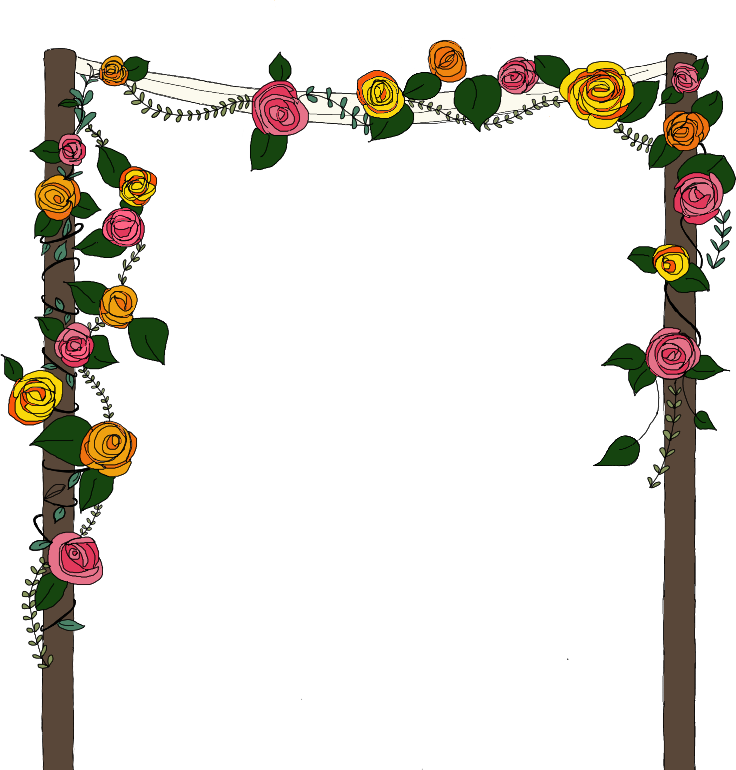
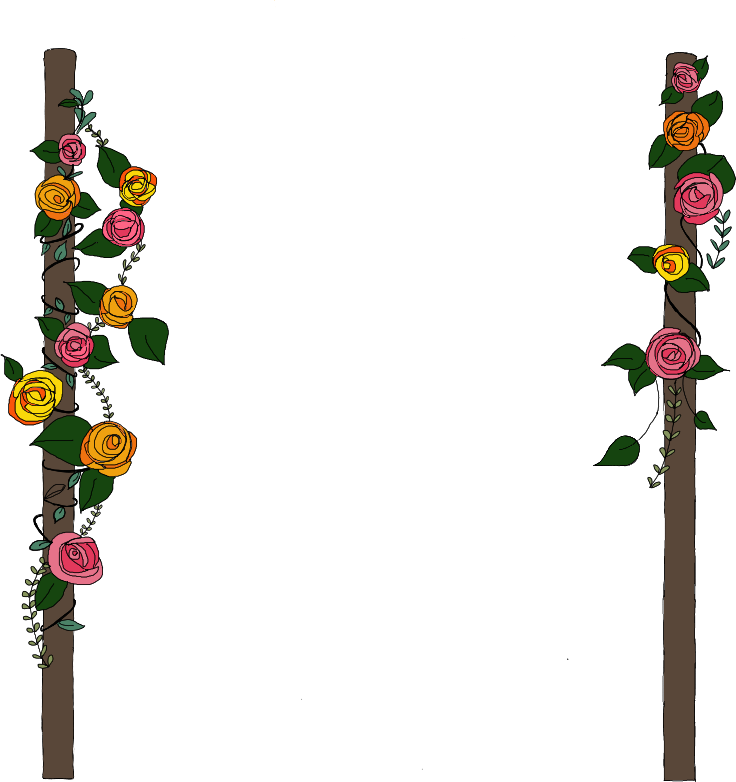
Make top of chuppah a rope

Changed region(s): [[0.0, 0.0312, 1.0, 0.8727], [0.875, 0.9974, 0.9688, 1.0], [0.0312, 0.9974, 0.125, 1.0]]

diff --git a/game/src/scenes/Game.ts b/game/src/scenes/Game.ts
@@ -60,6 +60,7 @@ export class Game extends Scene {
         this.load.image("cassidy", "cassidy.png");
         this.load.image("chuppah", "chuppah.png");
         this.load.image("chuppah-platform", "chuppah-platform.png");
+        this.load.image("chuppah-top", "chuppah-top-unskewed.png");
         this.load.image("wardrobe-door", "wardrobe-door.png");
         this.load.image("banner", "banner.png");
         this.load.image("camera", "camera.png");
@@ -598,25 +599,42 @@ export class Game extends Scene {
         chuppah.setCollisionCategory(CATEGORY_FOREGROUND);
         chuppah.setCollidesWith(0);
 
-        // this.createChuppahLine(poles, 30, 12);
-        // this.createChuppahLine(poles, 30, 16);
+        const chuppahTop = this.createRope(
+            "chuppah-top",
+            new Phaser.Geom.Point(GAME_WIDTH / 2 - 300, GAME_HEIGHT - 760),
+            new Phaser.Geom.Point(GAME_WIDTH / 2 + 300, GAME_HEIGHT - 765),
+            30,
+            5,
+            20,
+            CATEGORY_OBJECTS,
+            CATEGORY_OBJECTS,
+            0.8,
+        );
+        chuppahTop.setDepth(DEPTH_DEFAULT);
     }
 
-    createBanner() {
-        const numPoints = 30;
-        const bannerRope = this.add.rope(
+    createRope(
+        texture: string,
+        ropeBegin: Phaser.Geom.Point,
+        ropeEnd: Phaser.Geom.Point,
+        numPoints: number,
+        droopX: number,
+        droopY: number,
+        collisionCategory: number,
+        collidesWith: number,
+        segmentLengthMultiplier = 1.0,
+    ): Phaser.GameObjects.Rope {
+        const rope = this.add.rope(
             0,
             0,
-            "banner",
+            texture,
             undefined,
             numPoints as any, // eslint-disable-line @typescript-eslint/no-explicit-any
         );
-        bannerRope.setDepth(DEPTH_BANNER);
 
-        const ropeBegin = new Phaser.Geom.Point(GAME_WIDTH / 2 - 500, -50);
-        const ropeEnd = new Phaser.Geom.Point(GAME_WIDTH / 2 + 500, -50);
         const segmentLength =
-            (1.0 * Phaser.Math.Distance.BetweenPoints(ropeBegin, ropeEnd)) /
+            (segmentLengthMultiplier *
+                Phaser.Math.Distance.BetweenPoints(ropeBegin, ropeEnd)) /
             (numPoints - 1);
 
         const ropePoints: Array<Phaser.Physics.Matter.Sprite & MatterJS.BodyType> = [];
@@ -627,32 +645,50 @@ export class Game extends Scene {
                 ropeEnd,
                 pointIndex / (numPoints - 1),
             );
-            ropePointLocation.y += 200 * Math.sin((pointIndex / numPoints) * Math.PI);
+            ropePointLocation.y +=
+                droopY * Math.sin((pointIndex / numPoints) * Math.PI);
             ropePointLocation.x +=
-                -10 * Math.sin((pointIndex / numPoints) * 2 * Math.PI);
+                -droopX * Math.sin((pointIndex / numPoints) * 2 * Math.PI);
             const point = this.matter.add.gameObject(
                 this.add.circle(ropePointLocation.x, ropePointLocation.y, 1),
                 {
                     isStatic: pointIndex === 0 || pointIndex === numPoints - 1,
                 },
             ) as Phaser.Physics.Matter.Sprite & MatterJS.BodyType;
-            point.setCollisionCategory(CATEGORY_FOREGROUND);
-            point.setCollidesWith(0);
+            point.setCollisionCategory(collisionCategory);
+            point.setCollidesWith(collidesWith);
             if (prevPoint !== null) {
                 this.matter.add.constraint(point, prevPoint, segmentLength, 0);
             }
             ropePoints.push(point);
             prevPoint = point;
         }
+
         this.matter.world.on("beforeupdate", () => {
             for (let pointIndex = 0; pointIndex < numPoints; pointIndex++) {
-                bannerRope.points[pointIndex].x = ropePoints[pointIndex].x;
-                bannerRope.points[pointIndex].y = ropePoints[pointIndex].y;
+                rope.points[pointIndex].x = ropePoints[pointIndex].x;
+                rope.points[pointIndex].y = ropePoints[pointIndex].y;
 
                 ropePoints[pointIndex].applyForce(this.wind);
             }
-            bannerRope.setDirty();
+            rope.setDirty();
         });
+
+        return rope;
+    }
+
+    createBanner() {
+        const bannerRope = this.createRope(
+            "banner",
+            new Phaser.Geom.Point(GAME_WIDTH / 2 - 500, -80),
+            new Phaser.Geom.Point(GAME_WIDTH / 2 + 500, -80),
+            30,
+            10,
+            200,
+            CATEGORY_FOREGROUND,
+            0,
+        );
+        bannerRope.setDepth(DEPTH_BANNER);
     }
 
     createCamera() {
